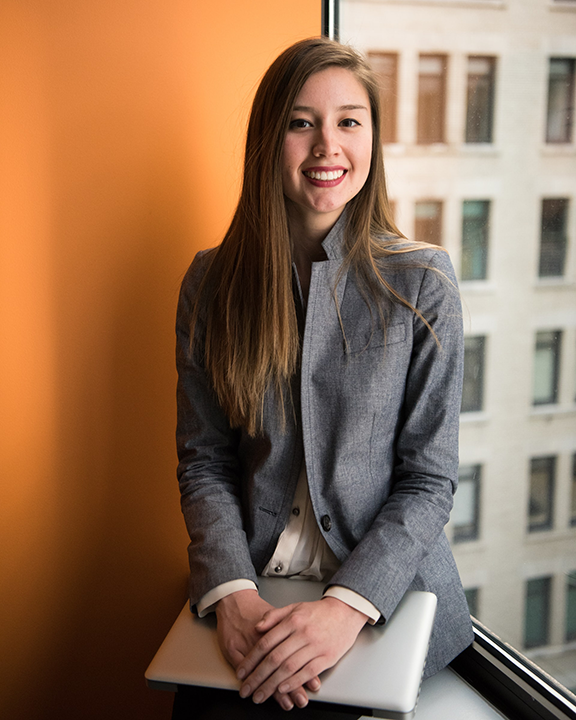
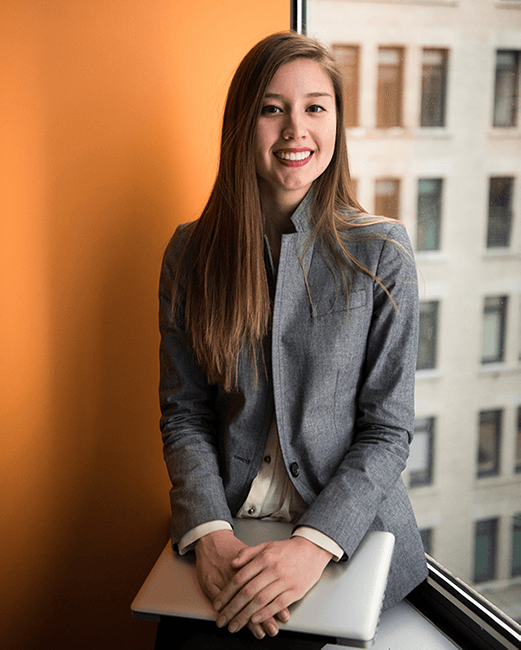
se optimizaron imagenes

diff --git a/index.html b/index.html
@@ -175,28 +175,28 @@
 
                 <!-- TRABAJO 1 -->
                 <div data-aos="zoom-in" class="trabajo__card">
-                    <img class="trabajo__img" src="css/images/Trabajo_1.png" alt="trabajo_1">
+                    <img class="trabajo__img" src="css/images/viviendas/vivienda_1.png" alt="trabajo_1">
                     <p class="trabajo__info">En esta vivienda se buscó el mejor estilo para el cliente, se rediseñó el espacio y se seleccionó la mejor paleta de colores, mobiliario y revestimiento para el mismo, acorde al estilo de vida de los propietarios.
                     </p>
                     <a class="trabajo__btn" href="trabajos.html#trabajo_1" target="_blank">Ver más</a>
                 </div>
                 <!-- FIN TRABAJO 1 -->
                 
-                <!-- TRABAJO 3 -->
+                <!-- TRABAJO 2 -->
                 <div data-aos="zoom-in" class="trabajo__card">
-                    <img class="trabajo__img" src="css/images/Trabajo_3.png" alt="trabajo_3">
+                    <img class="trabajo__img" src="css/images/locales/local_1.png" alt="trabajo_3">
                     <p class="trabajo__info">Luego de una charla con el cliente para conocer sus necesidades, se resuelven problemas con luminarias, colores y materialidad, se ampliaron sectores y se buscó no perder la comodidad del cliente.</p>
                     <a class="trabajo__btn" href="trabajos.html#trabajo_3" target="_blank">Ver más</a>
                 </div>
-                <!-- FIN TRABAJO 3 -->
+                <!-- FIN TRABAJO 2 -->
 
-                <!-- TRABAJO 2 -->
+                <!-- TRABAJO 3 -->
                 <div data-aos="zoom-in" class="trabajo__card">
-                    <img class="trabajo__img" src="css/images/Trabajo_2.png" alt="trabajo_2">
+                    <img class="trabajo__img" src="css/images/cocina/cocina_1.png" alt="trabajo_2">
                     <p class="trabajo__info">Cocina o mejor dicho el corazón de la casa, en este ambiente se buscó rediseñar acorde a las necesidades y gustos de la familia, se amplió para mayor comodidad a la hora de cocinar y no perder la intimidad familiar que requiere este ambiente.</p>
                     <a class="trabajo__btn" href="trabajos.html#trabajo_2" target="_blank">Ver más</a>
                 </div>
-                <!-- FIN TRABAJO 2 -->
+                <!-- FIN TRABAJO 3 -->
 
             </div>
             <!-- FIN TRABAJO CARD 1 -->

diff --git a/trabajos.html b/trabajos.html
@@ -122,12 +122,6 @@
                             <div class="carousel-item">
                                 <img src="css/images/viviendas/vivienda_5.png" class="d-block w-100" alt="vivienda_5">
                             </div>
-                            <div class="carousel-item">
-                                <img src="css/images/viviendas/vivienda_6.png" class="d-block w-100" alt="vivienda_6">
-                            </div>
-                            <div class="carousel-item">
-                                <img src="css/images/viviendas/vivienda_7.png" class="d-block w-100" alt="vivienda_7">
-                            </div>
                         </div>
                         
                         <button class="carousel-control-prev" type="button" data-bs-target="#carouselExampleControls_1"
@@ -226,9 +220,6 @@
                             </div>
                             <div class="carousel-item">
                                 <img src="css/images/locales/local_5.png" class="d-block w-100" alt="local_5">
-                            </div>
-                            <div class="carousel-item">
-                                <img src="css/images/locales/local_6.png" class="d-block w-100" alt="local_6">
                             </div>
                         </div>
                         
